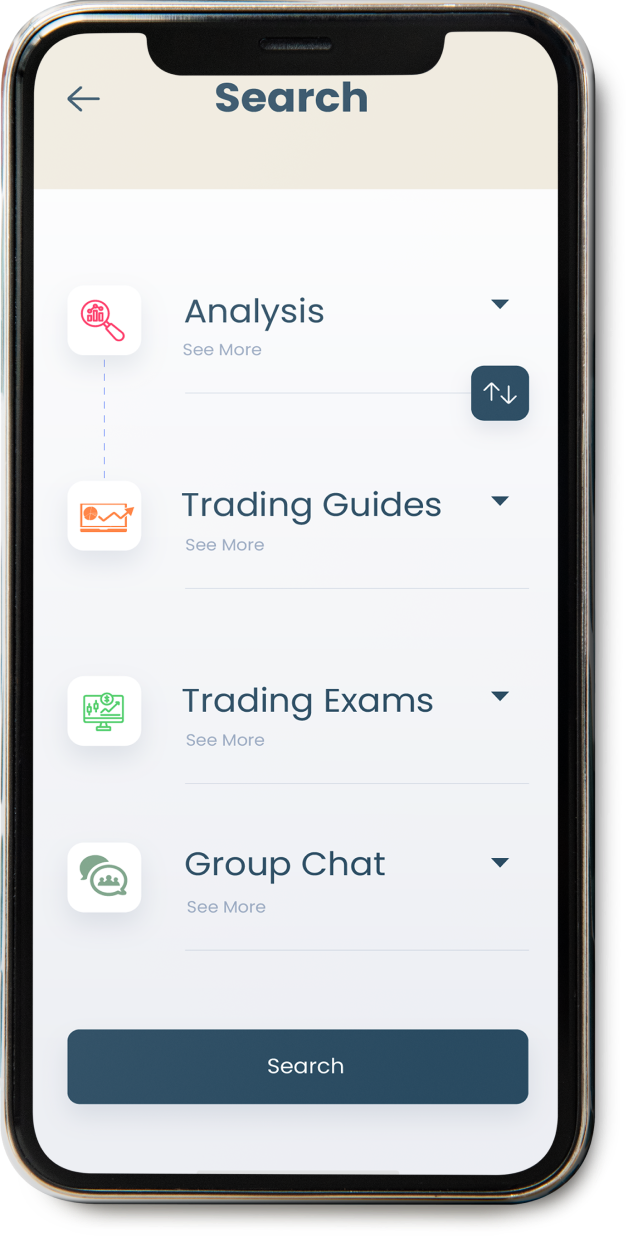
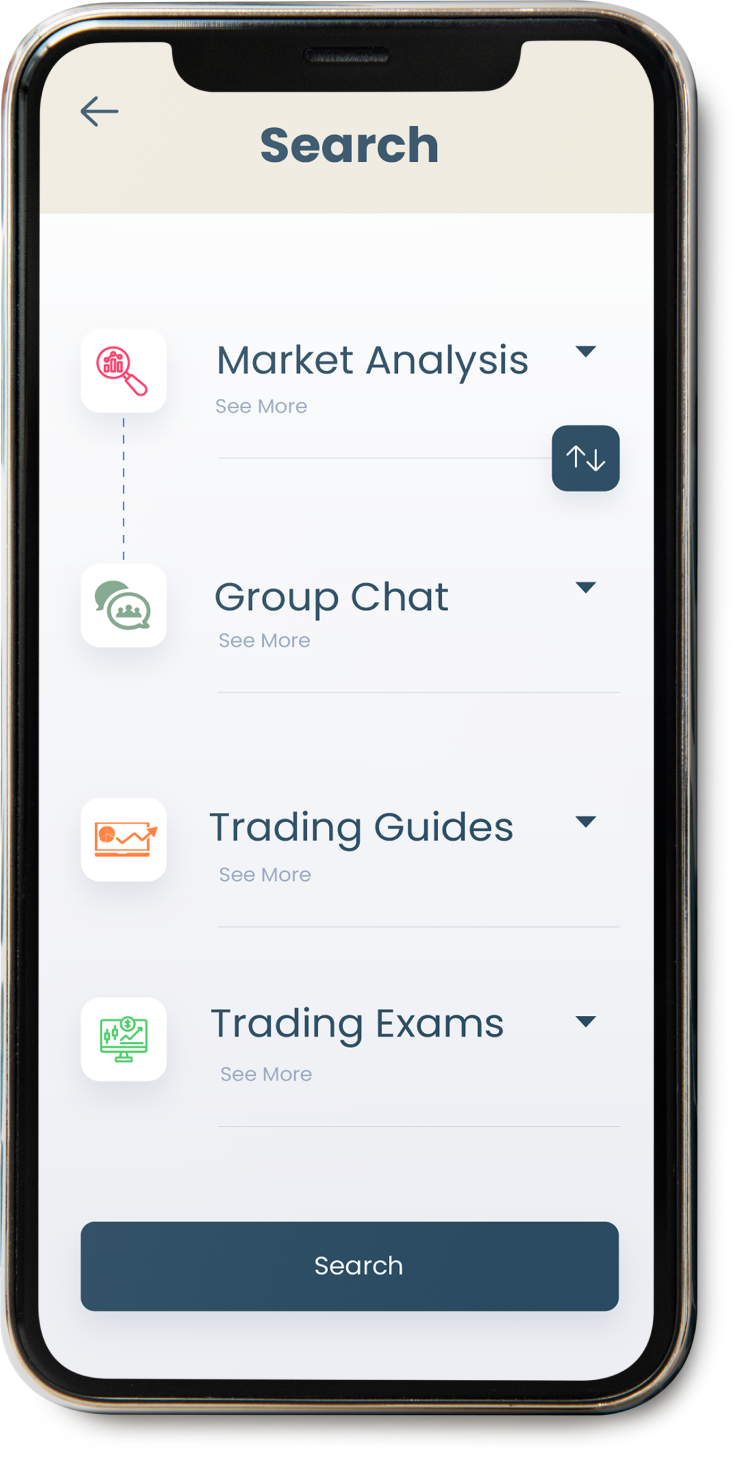
radio button design and some other css fixes

diff --git a/resources/js/components/exam/ExamQuestions.vue b/resources/js/components/exam/ExamQuestions.vue
@@ -1,41 +1,46 @@
 <template>
-    <!-- Exam Header with Timer -->
-    <div class="exam-header bg-white shadow-sm p-4 mb-3">
-      <p class="d-flex justify-content-end">
-        <i class="bi bi-clock icon-bold me-1"></i> Time Left - <span class="fs-3 fw-6 align-self-center ms-2">{{ timeLeft.minutes }}:{{ timeLeft.seconds }}</span>
+  <!-- Exam Header with Timer -->
+  <div class="exam-header bg-white shadow-sm p-4 mb-3">
+    <p class="d-flex justify-content-end">
+      <i class="bi bi-clock icon-bold me-1"></i> Time Left - <span class="fs-3 fw-6 align-self-center ms-2">{{
+        timeLeft.minutes }}:{{ timeLeft.seconds }}</span>
+    </p>
+    <div class="progress exam-progress">
+      <div class="progress-bar exam-progress-bar" role="progressbar" aria-label="Basic example"
+        :style="{ width: examProgress + '%' }"></div>
+    </div>
+  </div>
+
+  <!-- Question Display -->
+  <div class="exam-header bg-white shadow-sm p-4">
+    <div v-if="examQuestion" class="container-lg exam-main my-2">
+      <p class="fw-bold fs-18 text-start my-4 text-black">
+        <b>Question </b>{{ currentQuestionIndex + 1 }} of {{ totalQuestions }}
       </p>
-      <div class="progress exam-progress">
-        <div class="progress-bar exam-progress-bar" role="progressbar" aria-label="Basic example" :style="{ width: examProgress + '%' }"></div>
+      <h3 class="fw-6 fs-18 text-uppercase text-start">{{ examQuestion.question_text }}</h3>
+      <div class="text-center">
+        <img v-if="examQuestion.featured_image" :src="examQuestion.featured_image" alt="" class="my-2" width="400">
       </div>
-    </div>
 
-    <!-- Question Display -->
-    <div class="exam-header bg-white shadow-sm p-4">
-      <div v-if="examQuestion" class="container-lg exam-main my-2">
-        <p class="fw-bold fs-18 text-start my-4 text-black">
-          <b>Question </b>{{ currentQuestionIndex + 1 }} of {{ totalQuestions }}
-        </p>
-        <h3 class="fw-6 fs-18 text-uppercase text-start">{{ examQuestion.question_text }}</h3>
-        <div class="text-center">
-          <img v-if="examQuestion.featured_image" :src="examQuestion.featured_image" alt="" class="my-2" width="400">
+      <!-- Options Form -->
+      <form @submit.prevent="submitAnswer">
+        <div v-for="(option, optionKey) in getOptions(examQuestion)" :key="optionKey"
+          class="form-check px-0 py-3 d-flex align-items-center gap-2 position-relative">
+          <input v-model="selectedAnswer" class="form-check-input custom-radio-btn radio" type="radio"
+            :name="'option' + examQuestion.id" :id="'option' + optionKey" :value="option">
+          <span class="custom-radio-label position-relative"></span>
+          <label class="form-check-label fw-5 mb-0 fs-5" :for="'option' + optionKey">{{ option }}</label>
         </div>
-
-        <!-- Options Form -->
-        <form @submit.prevent="submitAnswer" class="px-4">
-          <div v-for="(option, optionKey) in getOptions(examQuestion)" :key="optionKey" class="form-check p-3">
-            <input v-model="selectedAnswer" class="form-check-input" type="radio" :name="'option' + examQuestion.id" :id="'option' + optionKey" :value="option">
-            <label class="form-check-label fw-5" :for="'option' + optionKey">{{ option }}</label>
-          </div>
-          <div class="text-center">
-            <button v-if="!isLastQuestion" type="submit" class="btn-primary">Next Question</button>
-            <button v-else @click="showResult" class="btn-primary">Show Result</button>
-          </div>
-        </form>
-      </div>
-      <div v-else>
-        <p>No questions available</p>
-      </div>
+        <div class="text-center">
+          <button v-if="!isLastQuestion" type="submit" class="btn-primary">Next Question</button>
+          <button v-else @click="showResult" class="btn-primary">Show Result</button>
+        </div>
+      </form>
     </div>
+    <div v-else>
+      <p>No questions available</p>
+    </div>
+  </div>
 </template>
 
 <script>
@@ -169,3 +174,143 @@ export default {
   },
 };
 </script>
+<style>
+@keyframes checked-radio {
+  0% {
+    transform: rotate(0) translateY(-3px) scale(0.5);
+  }
+
+  83% {
+    transform: rotate(360deg) translateY(0px) scale(1);
+    transform-origin: 15px;
+  }
+
+  88% {
+    transform: translateY(1px) scale(1);
+  }
+
+  93% {
+    transform: translateY(2px) scale(1);
+  }
+
+  100% {
+    transform: translateY(0) scale(1);
+  }
+}
+
+@keyframes unchecked-radio {
+  0% {
+    width: 20px;
+    height: 20px;
+    left: 5px;
+    top: 5px;
+    background: white;
+  }
+
+  25% {
+    width: 15px;
+    height: 15px;
+    left: 7.5px;
+    top: 7.5px;
+    background: var(--cta-btn);
+  }
+
+  50% {
+    width: 10px;
+    height: 10px;
+    left: 10px;
+    top: 10px;
+    background: var(--cta-btn);
+  }
+
+  75% {
+    width: 5px;
+    height: 5px;
+    left: 15px;
+    top: 15px;
+    background: var(--cta-btn);
+  }
+
+  100% {
+    width: 0px;
+    height: 0px;
+    left: 20px;
+    top: 20px;
+  }
+}
+
+.custom-radio-label,
+.custom-radio-label:before,
+.custom-radio-label:after {
+  /* margin: 0; */
+  padding: 0;
+  outline: 0;
+  overflow: hidden;
+  box-sizing: border-box;
+}
+
+.custom-radio-label,
+.custom-radio-label:before,
+.custom-radio-label:after {
+  position: absolute;
+  top: 0;
+  bottom: 0;
+  left: 0;
+  right: 0;
+}
+
+.custom-radio-label {
+  display: inline-block;
+  width: 30px;
+  height: 30px;
+  border-radius: 50%;
+}
+
+.custom-radio-label:before {
+  content: "";
+  position: absolute;
+  border-radius: 50%;
+  animation-name: unchecked-radio;
+  animation-duration: 2s;
+}
+
+.custom-radio-btn+.custom-radio-label {
+  position: relative;
+  background: var(--cta-btn);
+  border-color: var(--cta-btn) !important;
+}
+
+.custom-radio-btn:checked+.custom-radio-label {
+  background: white;
+  border: 5px solid;
+  transition: all .2s;
+}
+
+.custom-radio-btn:checked+.custom-radio-label:before {
+  width: 10px;
+  height: 10px;
+  background: var(--cta-btn);
+  transition: all .4s;
+  top: 5px;
+  left: 5px;
+}
+
+
+.custom-radio-btn:checked+.custom-radio-label:before {
+  animation-name: checked-radio;
+  animation-duration: 1s;
+  animation-timing-function: cubic-bezier(0.22, 0.61, 0.36, 1);
+  animation-fill-mode: both;
+}
+
+.custom-radio-btn[type="radio"] {
+  position: absolute;
+  z-index: 1;
+  top: 21px;
+  left: 29px;
+  opacity: 0;
+  -ms-transform: scale(2);
+  -webkit-transform: scale(2);
+  transform: scale(2)
+}
+</style>

diff --git a/resources/js/components/watchlist/tabs/Tabs.vue b/resources/js/components/watchlist/tabs/Tabs.vue
@@ -234,8 +234,8 @@
                                 </span>
                             </td>
                         </tr>
-                        <tr>
-                            <td colspan="6">
+                        <tr class="position-relative news-para">
+                            <td class="position-absolute d-flex align-items-center">
                                 <div class="fw-bold fs-16">
                                     <a href="#" class="text-black">
                                         Tesla’s Q3 conference call was the definition of a disaster,
@@ -390,3 +390,14 @@ export default {
 
 };
 </script>
+<style>
+#listTable_length ,#listTable_filter,#listTable_info,#listTable_paginate,#newsTable_length,#newsTable_filter,#newsTable_info,#newsTable_paginate{
+    display: none !important;
+}
+.news-para{
+    height: 60px;
+}
+.news-para td{ 
+    inset: 0;
+}
+</style>

diff --git a/resources/css/frontend.css b/resources/css/frontend.css
@@ -90,7 +90,6 @@ body {
 .quoteDown-color {
     color: #82191C;
 }
-
 .bg-primary {
     background-color: var(--primary-color) !important;
 }
@@ -2198,10 +2197,9 @@ p.user-message {
     height: 10px;
 }
 
-/* .exam-progress-bar {
-    background-color: var(--primary-color);
-    width: 10%;
-} */
+.exam-progress-bar {
+    background-color: var(--cta-btn);
+}
 
 .overall-percentage {
     width: 150px;

diff --git a/resources/js/components/feed/CreatePost.vue b/resources/js/components/feed/CreatePost.vue
@@ -42,7 +42,7 @@
                             placeholder="What do you want to talk about?"></textarea>
                   <!-- Clear Color Button -->
                   <abbr title="Clear Color" v-if="selectedColor">
-                    <span class="post-icon-bg d-flex justify-content-center align-items-center clear-color" v-on:click="clearColor()">
+                    <span class="post-icon-bg d-flex justify-content-center clear-color" v-on:click="clearColor()">
                       <i class="bi bi-x-lg fs-4"></i>
                     </span>
                   </abbr>
@@ -374,7 +374,7 @@ input[type="file"] {
   top:20px;
   right:20px;
   width:30px;
-  height:20px;
+  height:30px;
 }
 .v3-emoji-picker{
   position: absolute;

diff --git a/resources/js/components/home/Hero.vue b/resources/js/components/home/Hero.vue
@@ -13,8 +13,8 @@
                 <a href="" class="fw-bolder fw-bolder fs-16 ">BTC-USD</a><br>
                 <span class="fw-bolder fs-16">36702.25</span>
               </h3>
-              <div class="Green fs-14 fw-bolder text-start"><span>+645.92</span>
-                <span>(+1.71%)</span>
+              <div class="Red fs-14 fw-bolder text-start"><span>-645.92</span>
+                <span>(-1.71%)</span>
               </div>
             </div>
           </div>

diff --git a/resources/js/components/home/HomeMain.vue b/resources/js/components/home/HomeMain.vue
@@ -2,9 +2,6 @@
   <!-- Hero Section Start  -->
   <Hero />
   <!-- Hero Section End  -->
-  <!-- FEATURED VIDEOS Section Start -->
-  <FeaturedVideo />
-  <!-- FEATURED VIDEOS Section End -->
   <!-- advanced-features-section Start -->
   <section class="advanced-features-section container-fluid bg-smoke py-80">
     <div class="container">

diff --git a/resources/js/components/header/Navigation.vue b/resources/js/components/header/Navigation.vue
@@ -344,7 +344,7 @@ export default {
     data() {
         return {
             // Simulate the login status. Replace this with your actual logic.
-            isLoggedIn: true,
+            isLoggedIn: false,
         };
     },
 };